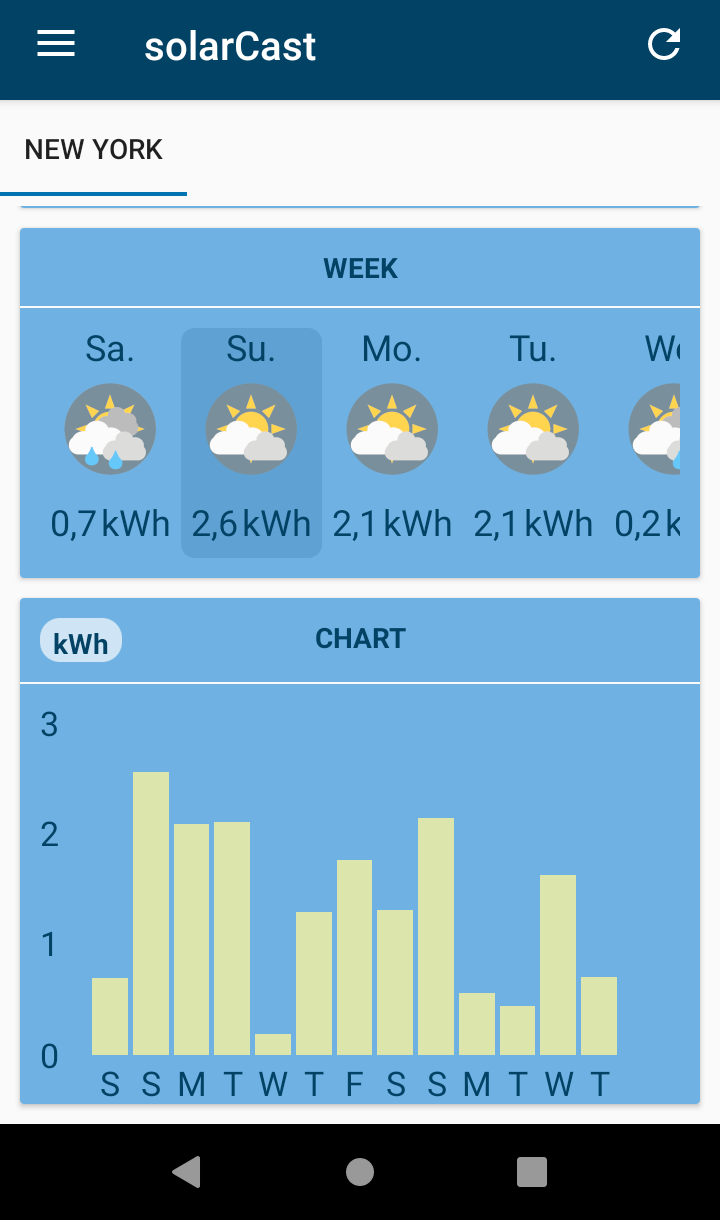
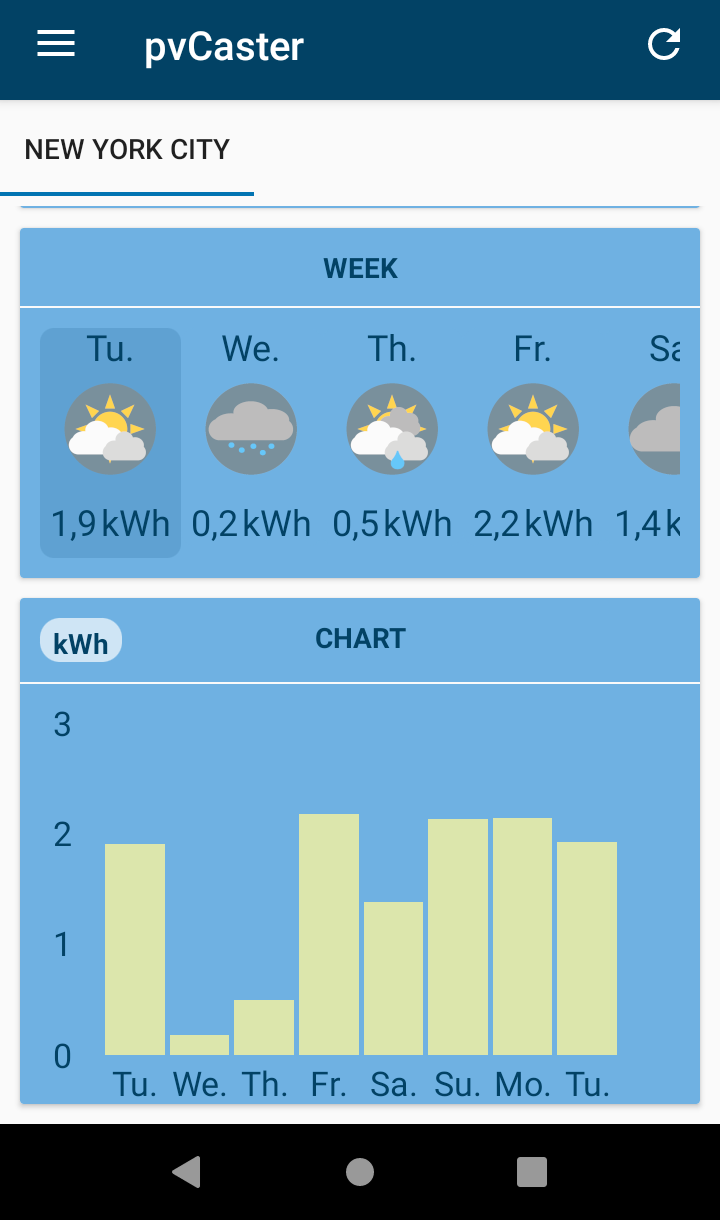
update fastlane and Readme

diff --git a/README.md b/README.md
@@ -80,4 +80,4 @@ If you know the solution to a bug please report it in the corresponding issue an
 | **Audio Analyzer** | **LavSeeker** | **TimeLapseCam** |
 | [<img src="https://github.com/woheller69/audio-analyzer-for-android/blob/master/fastlane/metadata/android/en-US/images/icon.png" width="50">](https://f-droid.org/packages/org.woheller69.audio_analyzer_for_android/) |[<img src="https://github.com/woheller69/lavatories/blob/master/fastlane/metadata/android/en-US/images/icon.png" width="50">](https://f-droid.org/packages/org.woheller69.lavatories/) | [<img src="https://github.com/woheller69/TimeLapseCamera/blob/master/fastlane/metadata/android/en-US/images/icon.png" width="50">](https://f-droid.org/packages/org.woheller69.TimeLapseCam/) |
 | **Arity** | **omWeather** |  |
-| [<img src="https://github.com/woheller69/arity/blob/master/fastlane/metadata/android/en-US/images/icon.png" width="50">](https://f-droid.org/packages/org.woheller69.arity/) | [<img src="https://github.com/woheller69/omweather/blob/master/fastlane/metadata/android/en-US/images/icon.png" width="50">](https://f-droid.org/packages/org.woheller69.omweather/) | |
+| [<img src="https://github.com/woheller69/arity/blob/master/fastlane/metadata/android/en-US/images/icon.png" width="50">](https://f-droid.org/packages/org.woheller69.arity/) | [<img src="https://github.com/woheller69/omweather/blob/master/fastlane/metadata/android/en-US/images/icon.png" width="50">](https://f-droid.org/packages/org.woheller69.omweather/) | [<img src="https://github.com/woheller69/pvcaster/blob/main/fastlane/metadata/android/en-US/images/icon.png" width="50">](https://f-droid.org/packages/org.woheller69.pvcaster/) |
